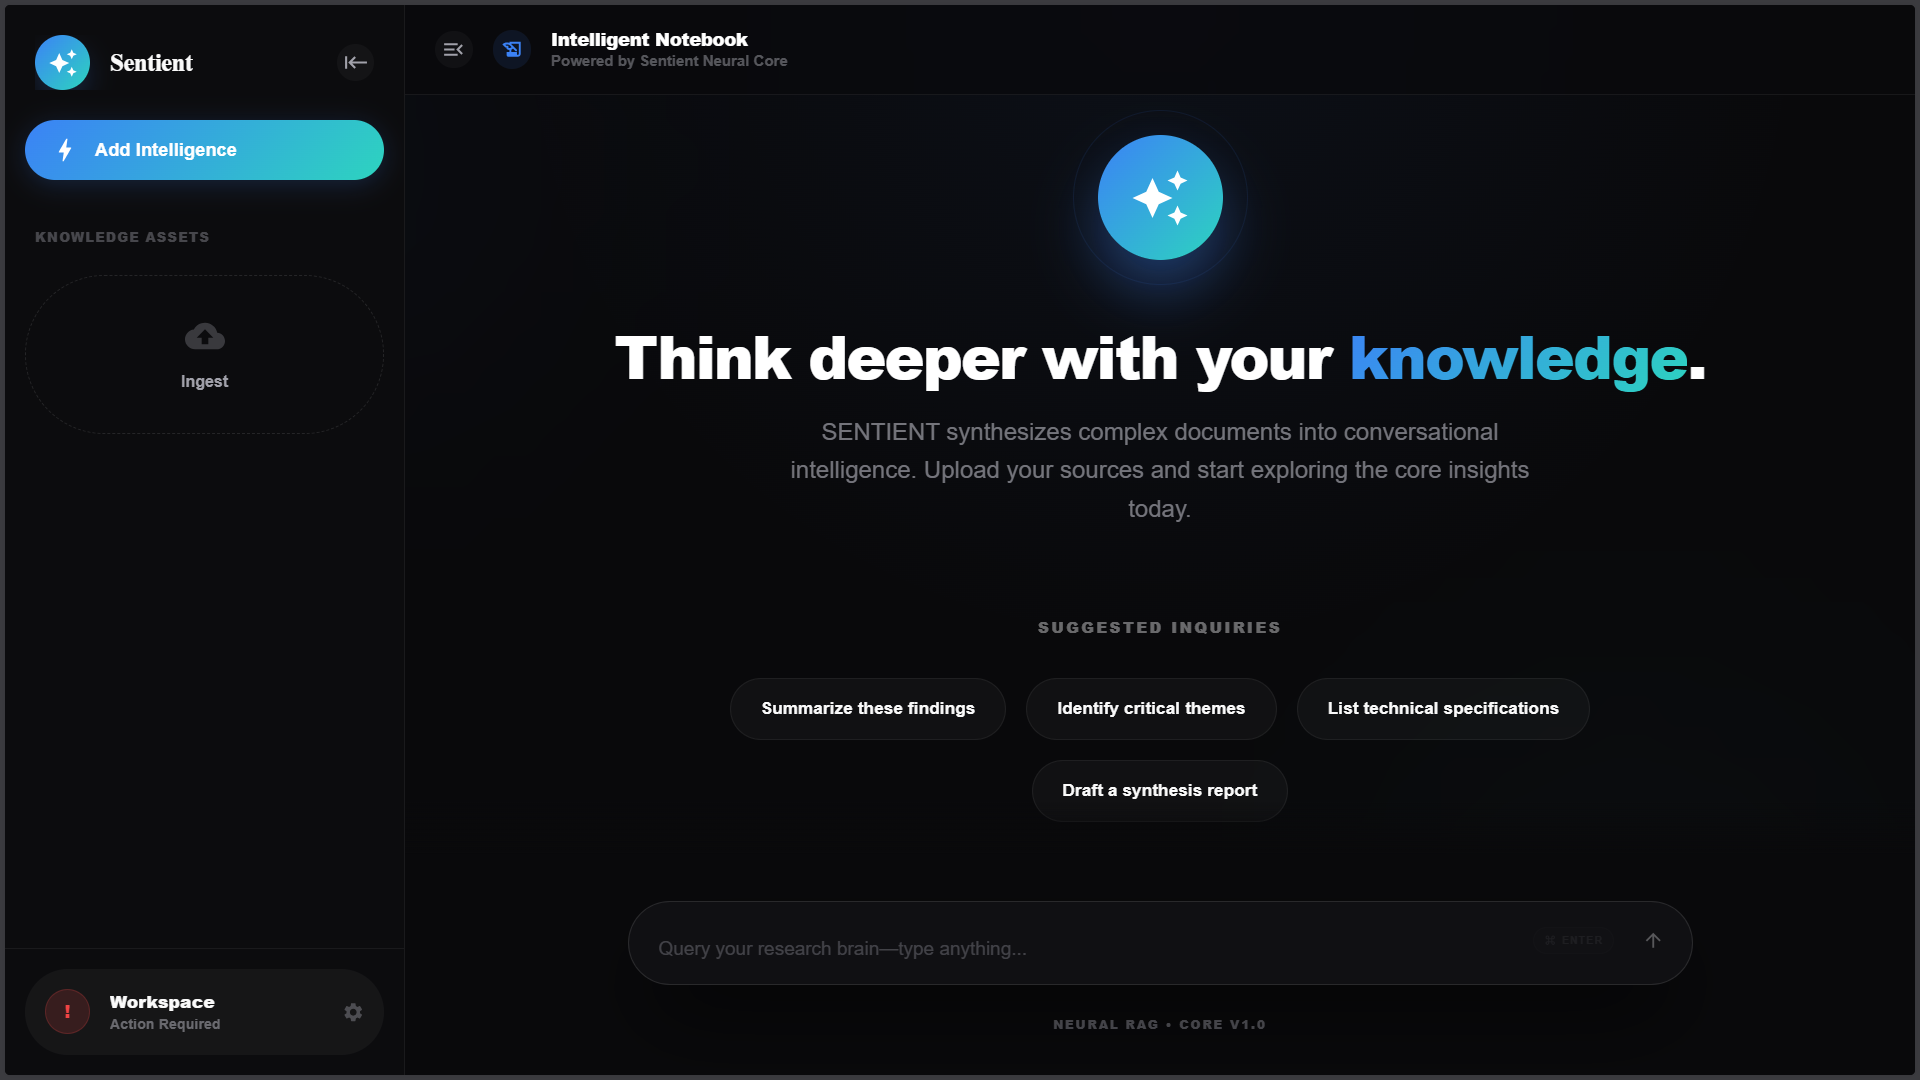
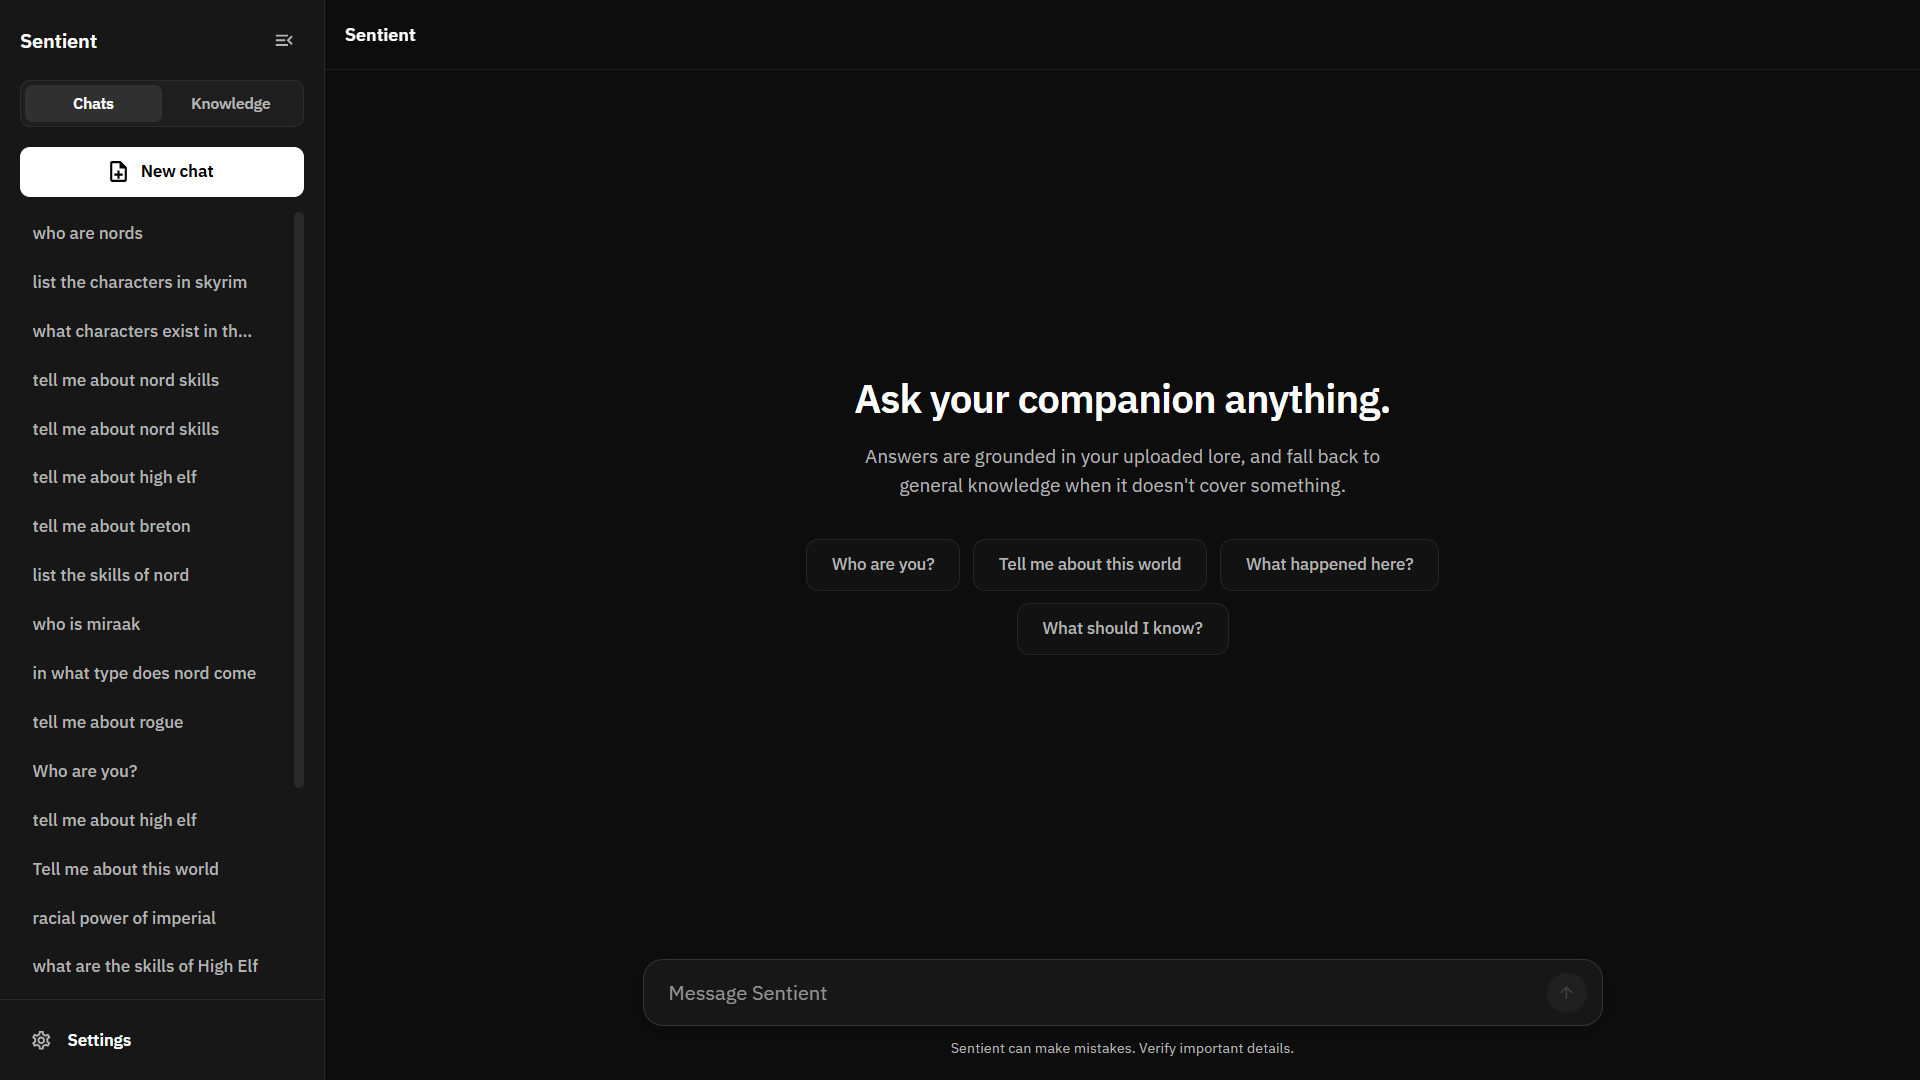
Updated sentient project

diff --git a/src/components/Projects.tsx b/src/components/Projects.tsx
@@ -69,6 +69,11 @@ import tabflow1 from "@/assets/tabflow1.png";
 import tabflow2 from "@/assets/tabflow2.png";
 import tabflow3 from "@/assets/tabflow3.png";
 import sentient1 from "@/assets/sentient1.png";
+import sentient2 from "@/assets/sentient2.png";
+import sentient3 from "@/assets/sentient3.png";
+import sentient4 from "@/assets/sentient4.png";
+import sentient5 from "@/assets/sentient5.png";
+import sentient6 from "@/assets/sentient6.png";
 import quizGenerationBackend from "@/assets/quiz-generation-backend.png";
 import recall1 from "@/assets/recall1.png";
 import recall2 from "@/assets/recall2.png";
@@ -153,12 +158,12 @@ const projects = [
   },
   {
     id: 9,
-    title: "Sentient AI",
+    title: "Sentient",
     subtitle: "RAG-based AI NPC Engine",
     description:
       "A RAG-based AI NPC engine that processes game manuals and custom styles to deliver personalized dialogues via RESTful API.",
     image: sentient1,
-    images: [sentient1],
+    images: [sentient1,sentient2,sentient3,sentient4,sentient5,sentient6],
     tags: [
       "FastAPI",
       "LangChain",
@@ -182,7 +187,7 @@ const projects = [
     impact: "Revolutionizing In-game NPC Conversationality",
     demoUrl: "#",
     githubUrl: "https://github.com/prabhjot0109/sentient",
-    status: "Ongoing",
+    status: "Completed",
     role: "Full Stack Developer",
   },
   {